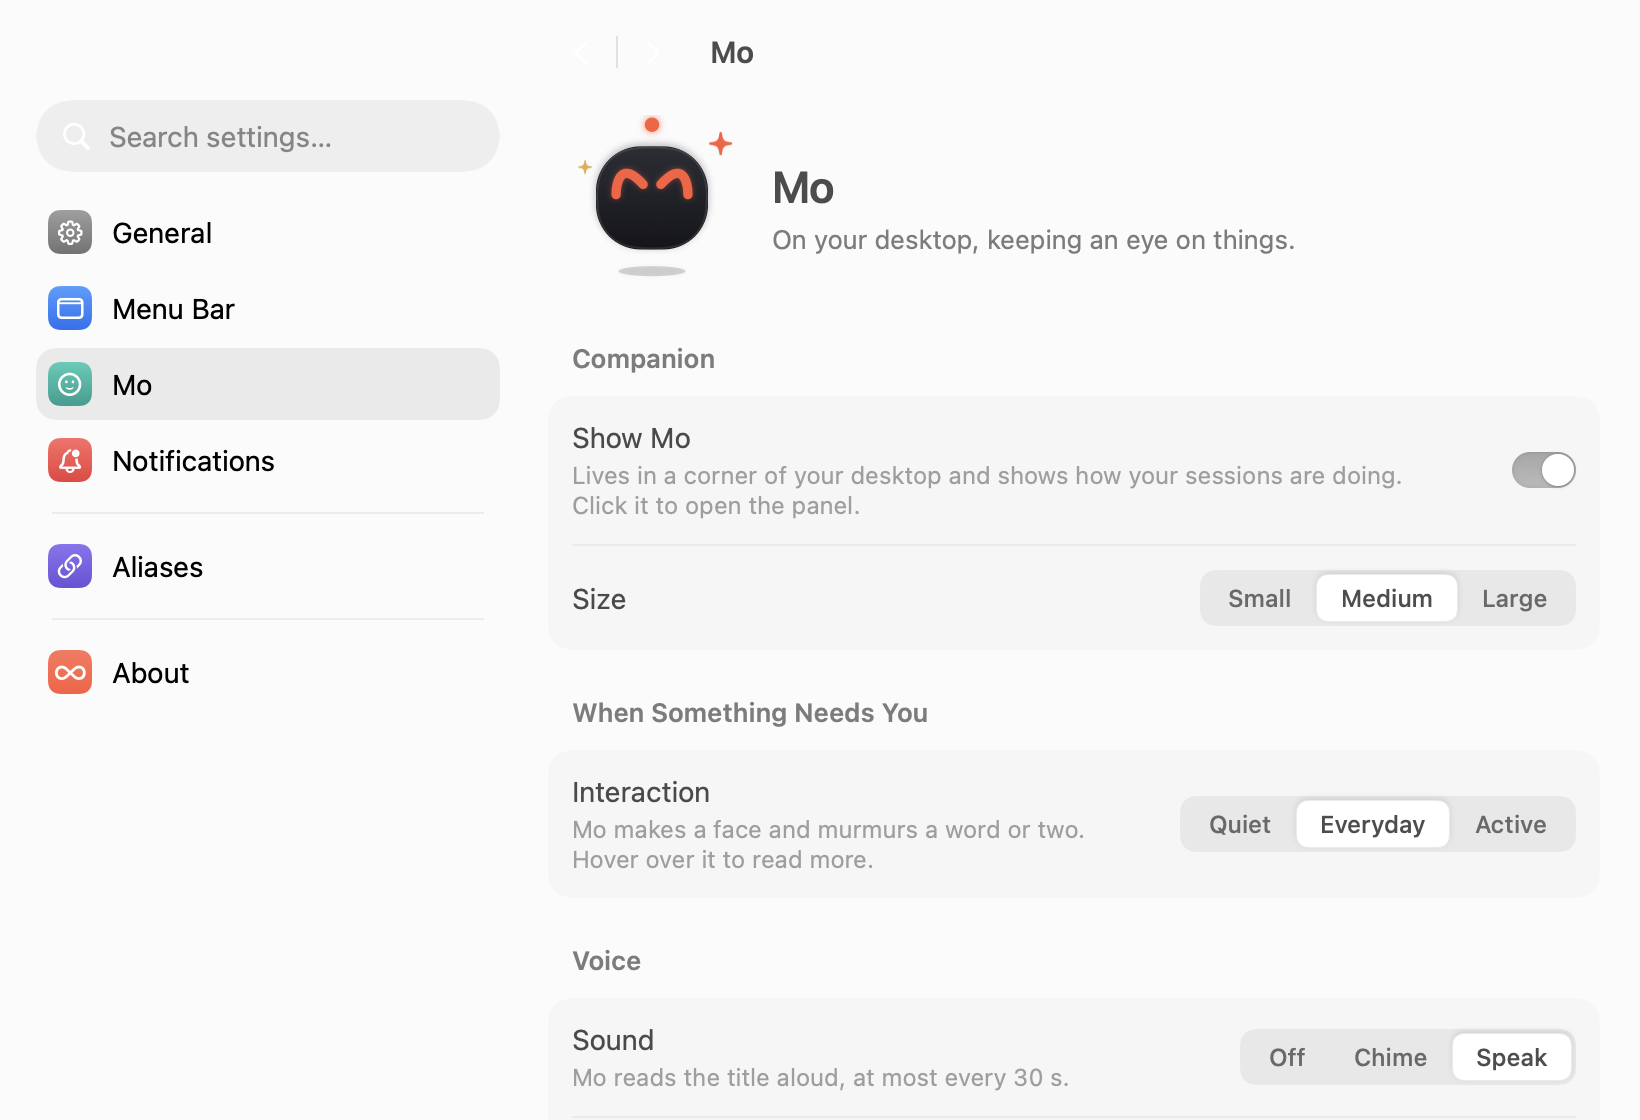
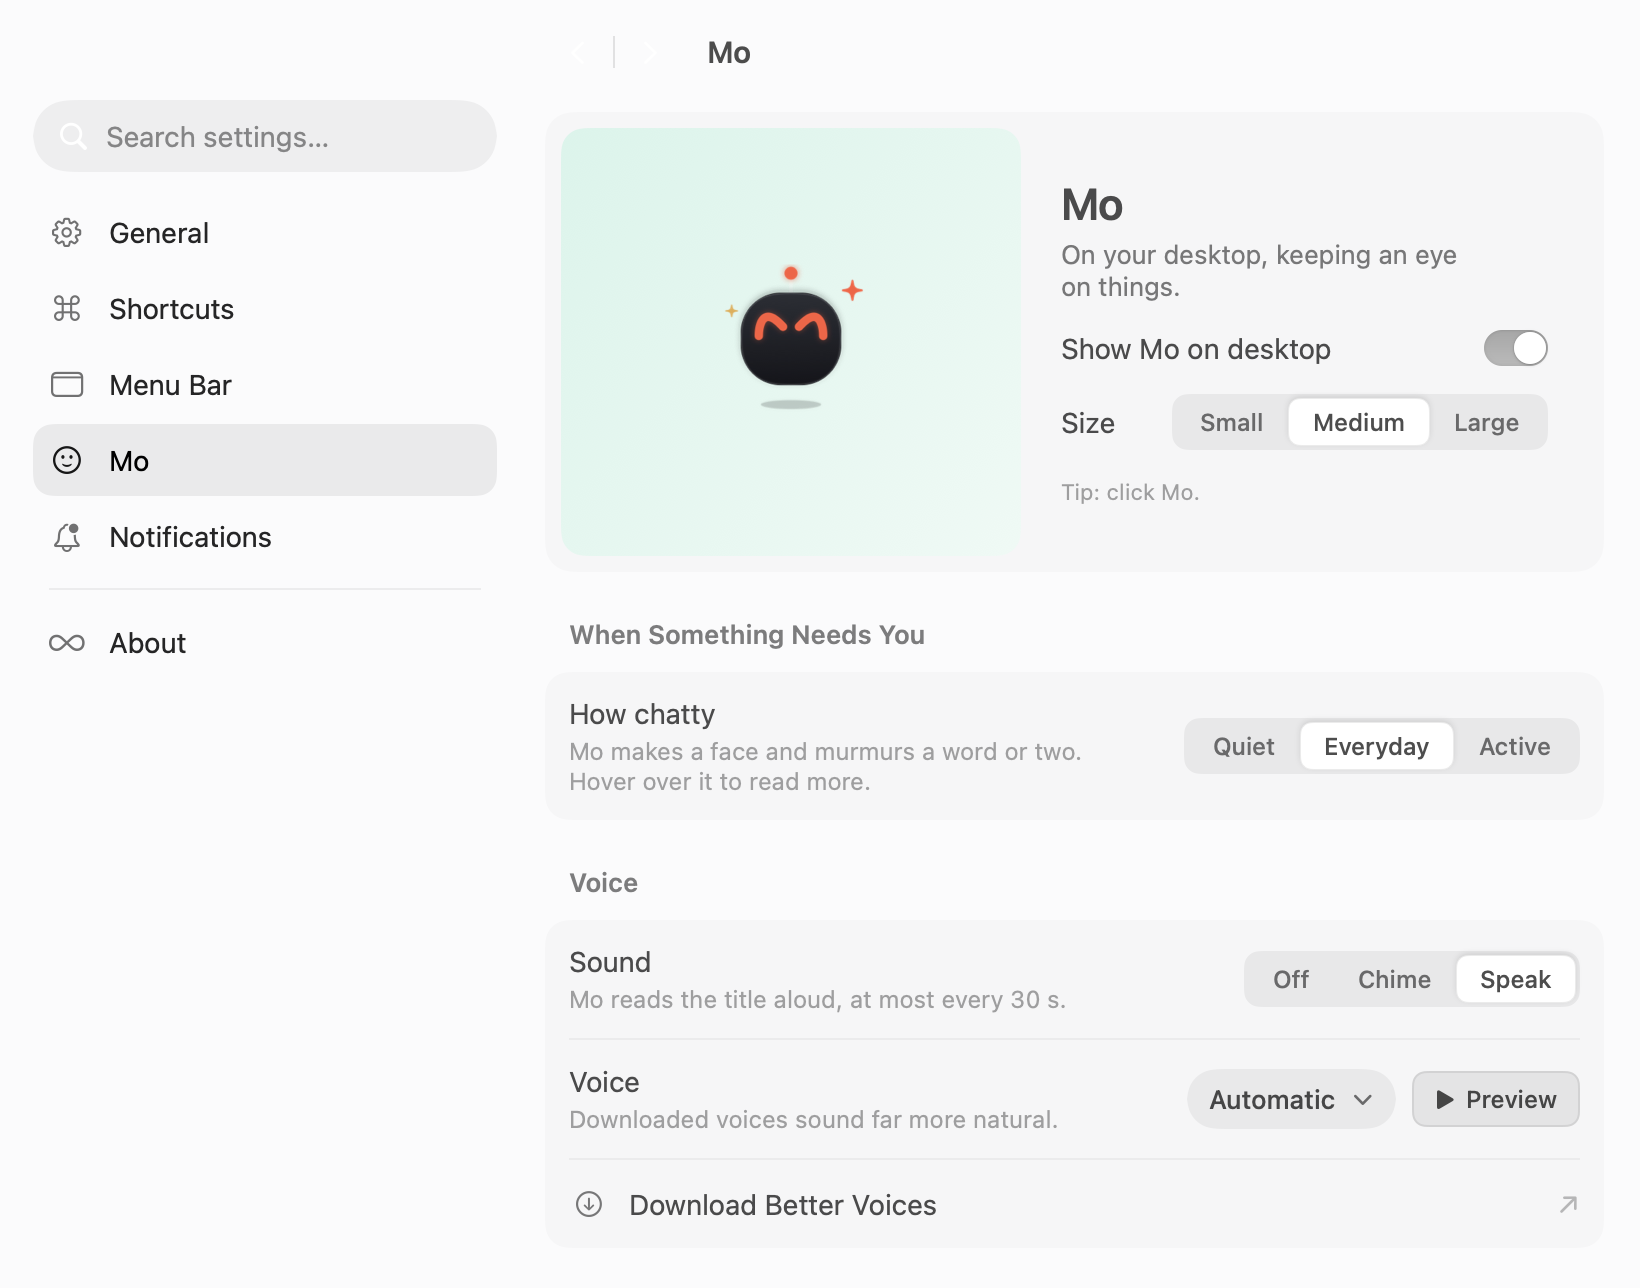
docs: new settings screenshots, Shortcuts on the site
- README and guide: Mo settings re-rendered with the quieter icons
- Site step 04 shows the Shortcuts page instead of General
- English: Size no longer wraps on the Mo page; group titles in Title Case

diff --git a/site/src/index.template.html b/site/src/index.template.html
@@ -110,8 +110,8 @@
               <figure class="screen absolute inset-0 flex items-center justify-center p-3 lg:p-8" data-screen="welcome">
                 <img data-pic="welcome" src="/assets/welcome.zh.dark.webp" alt="" data-alt-zh="cc-moss 首次打开时的欢迎引导" data-alt-en="The cc-moss welcome shown on first launch" loading="lazy" class="lang-img max-h-full max-w-full w-auto rounded-xl shadow-[0_30px_60px_-20px_rgba(0,0,0,.9),0_0_0_1px_var(--hair)]">
               </figure>
-              <figure class="screen absolute inset-0 flex items-center justify-center p-3 lg:p-8" data-screen="settings">
-                <img data-pic="settings-general" src="/assets/settings-general.zh.dark.webp" alt="" data-alt-zh="cc-moss 通用设置：开机打开、唤出快捷键、语言、工作区、终端" data-alt-en="cc-moss general settings: open at login, shortcut, language, workspace, terminal" loading="lazy" class="lang-img max-h-full max-w-full w-auto rounded-xl shadow-[0_30px_60px_-20px_rgba(0,0,0,.9),0_0_0_1px_var(--hair)]">
+              <figure class="screen absolute inset-0 flex items-center justify-center p-3 lg:p-8" data-screen="shortcuts">
+                <img data-pic="settings-shortcuts" src="/assets/settings-shortcuts.zh.dark.webp" alt="" data-alt-zh="cc-moss 快捷键设置：唤出面板的快捷键、终端里敲的短名字、面板里的按键" data-alt-en="cc-moss shortcut settings: the key that shows the panel, short names to type in the terminal, keys inside the panel" loading="lazy" class="lang-img max-h-full max-w-full w-auto rounded-xl shadow-[0_30px_60px_-20px_rgba(0,0,0,.9),0_0_0_1px_var(--hair)]">
               </figure>
               <figure class="screen absolute inset-0 flex items-center justify-center p-3 lg:p-8" data-screen="mo">
                 <img data-pic="settings-mo" src="/assets/settings-mo.zh.dark.webp" alt="" data-alt-zh="cc-moss 小莫设置：大小、互动方式和声音" data-alt-en="cc-moss settings for Mo: size, how it speaks up, and sound" loading="lazy" class="lang-img max-h-full max-w-full w-auto rounded-xl shadow-[0_30px_60px_-20px_rgba(0,0,0,.9),0_0_0_1px_var(--hair)]">
@@ -125,7 +125,7 @@
               <button class="tour-tab flex-1 whitespace-nowrap rounded-full px-3 py-1.5 text-xs sm:text-sm cursor-pointer transition-colors" data-go="panel"><span lang="zh">面板</span><span lang="en">Panel</span></button>
               <button class="tour-tab flex-1 whitespace-nowrap rounded-full px-3 py-1.5 text-xs sm:text-sm cursor-pointer transition-colors" data-go="actions">⌘K</button>
               <button class="tour-tab flex-1 whitespace-nowrap rounded-full px-3 py-1.5 text-xs sm:text-sm cursor-pointer transition-colors" data-go="welcome"><span lang="zh">引导</span><span lang="en">Welcome</span></button>
-              <button class="tour-tab flex-1 whitespace-nowrap rounded-full px-3 py-1.5 text-xs sm:text-sm cursor-pointer transition-colors" data-go="settings"><span lang="zh">设置</span><span lang="en">Settings</span></button>
+              <button class="tour-tab flex-1 whitespace-nowrap rounded-full px-3 py-1.5 text-xs sm:text-sm cursor-pointer transition-colors" data-go="shortcuts"><span lang="zh">快捷键</span><span lang="en">Shortcuts</span></button>
               <button class="tour-tab flex-1 whitespace-nowrap rounded-full px-3 py-1.5 text-xs sm:text-sm cursor-pointer transition-colors" data-go="mo"><span lang="zh">小莫</span><span lang="en">Mo</span></button>
             </div>
             <button class="tour-next grid place-items-center w-10 h-10 shrink-0 rounded-full bg-fg/[.05] shadow-[inset_0_0_0_1px_var(--hair)] text-fg/70 hover:text-fg hover:bg-fg/[.09] active:scale-95 disabled:opacity-30 disabled:pointer-events-none transition cursor-pointer" aria-label="Next"><svg class="w-4 h-4 rotate-180"><use href="#chev"/></svg></button>
@@ -154,11 +154,11 @@
               <p class="mt-3 text-fg/55 leading-relaxed"><span lang="zh">几步讲清楚，当场装好，不用读文档。</span><span lang="en">A friendly welcome does the setup for you. No manual required.</span></p>
             </div>
           </li>
-          <li data-agent="unwrap" class="step min-h-[48vh] lg:min-h-[80vh] flex items-center" data-step="settings">
+          <li data-agent="unwrap" class="step min-h-[48vh] lg:min-h-[80vh] flex items-center" data-step="shortcuts">
             <div class="max-w-sm py-10">
               <p class="font-mono text-xs text-coral" data-agent="skip">04</p>
-              <h3 class="mt-3 text-2xl sm:text-3xl font-semibold tracking-[-0.025em]"><span lang="zh">设置都是大白话。</span><span lang="en">Settings, in plain English.</span></h3>
-              <p class="mt-3 text-fg/55 leading-relaxed"><span lang="zh">开机打开、快捷键、语言、工作区、终端。</span><span lang="en">Open at login, your shortcut, your workspace, your terminal. That&rsquo;s it.</span></p>
+              <h3 class="mt-3 text-2xl sm:text-3xl font-semibold tracking-[-0.025em]"><span lang="zh">快捷键，一页管完。</span><span lang="en">Every shortcut, one page.</span></h3>
+              <p class="mt-3 text-fg/55 leading-relaxed"><span lang="zh">连按两下 Control 唤出面板。在终端里敲 <code class="font-mono">t</code>，回车就是会话列表。名字你来定。</span><span lang="en">Double-tap Control for the panel. Type <code class="font-mono">t</code> in any terminal for your sessions. Pick names you like.</span></p>
             </div>
           </li>
           <li data-agent="unwrap" class="step min-h-[48vh] lg:min-h-[80vh] flex items-center" data-step="mo">

diff --git a/apps/macos/Sources/CCMoss/ShortcutsSettings.swift b/apps/macos/Sources/CCMoss/ShortcutsSettings.swift
@@ -60,7 +60,7 @@ struct ShortcutsSettings: View {
 
     private var terminal: some View {
         VStack(alignment: .leading, spacing: 6) {
-            SettingsCard(title: L.t("In the terminal", "在终端里")) {
+            SettingsCard(title: L.t("In the Terminal", "在终端里")) {
                 if let loadError {
                     CardRow(title: loadError, divider: false) { EmptyView() }
                 } else {
@@ -417,7 +417,7 @@ private struct PanelKeys: View {
     }
 
     var body: some View {
-        SettingsCard(title: L.t("In the panel", "面板里")) {
+        SettingsCard(title: L.t("In the Panel", "面板里")) {
             ForEach(Array(keys.enumerated()), id: \.offset) { i, item in
                 VStack(spacing: 0) {
                     HStack {

diff --git a/apps/macos/Sources/CCMoss/MoStudio.swift b/apps/macos/Sources/CCMoss/MoStudio.swift
@@ -47,7 +47,7 @@ struct MoStudio: View {
                 }
                 if enabled {
                     HStack(spacing: 10) {
-                        Text(L.t("Size", "大小")).font(.system(size: 14))
+                        Text(L.t("Size", "大小")).font(.system(size: 14)).fixedSize()
                         Spacer()
                         SlidingPicker(selection: $size, options: [
                             (48, L.t("Small", "小")),

diff --git a/docs/guide.en.md b/docs/guide.en.md
@@ -160,7 +160,7 @@ and `|` are plain text. It can only run cc-moss's own commands.
   add `--force`; a file in `~/.local/bin` that cc-moss did not create is never replaced.
 - A shell alias or function with the same name runs instead of the alias. `alias add` and `doctor` point it out; your
   shell files are never edited.
-- The menubar app's Settings › Shortcuts page (under "In the terminal") adds, edits and removes them, through these same commands; the panel's shortcut lives on the same page.
+- The menubar app's Settings › Shortcuts page (under "In the Terminal") adds, edits and removes them, through these same commands; the panel's shortcut lives on the same page.
 
 ## The menubar app
 
